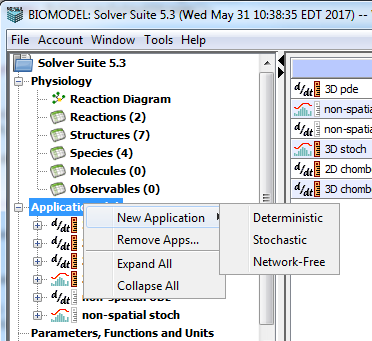
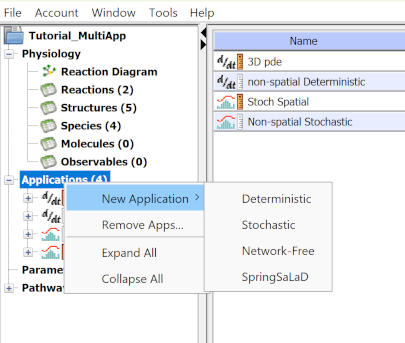
SpringSaLaD help additions

diff --git a/vcell-client/UserDocumentation/pages/BioModelApplications/ApplicationOverview.md b/vcell-client/UserDocumentation/pages/BioModelApplications/ApplicationOverview.md
@@ -25,6 +25,8 @@ Applications can be
 - [Network-free](../Appendix/Definitions.md#rule-based), a special stochastic
   [network-free application](../RuleBasedChapter/NFSimApp.md) that does not require generating a
   network to simulate.
+- [SpringSaLaD Langevin Dynamics](../Appendix/Definitions.md#springsalad), a spatial application
+  using Langevin dynamics to simulate diffusion and reactions of molecular domains.
 
 ![](../../images/ApplicationTypes.png)
 
